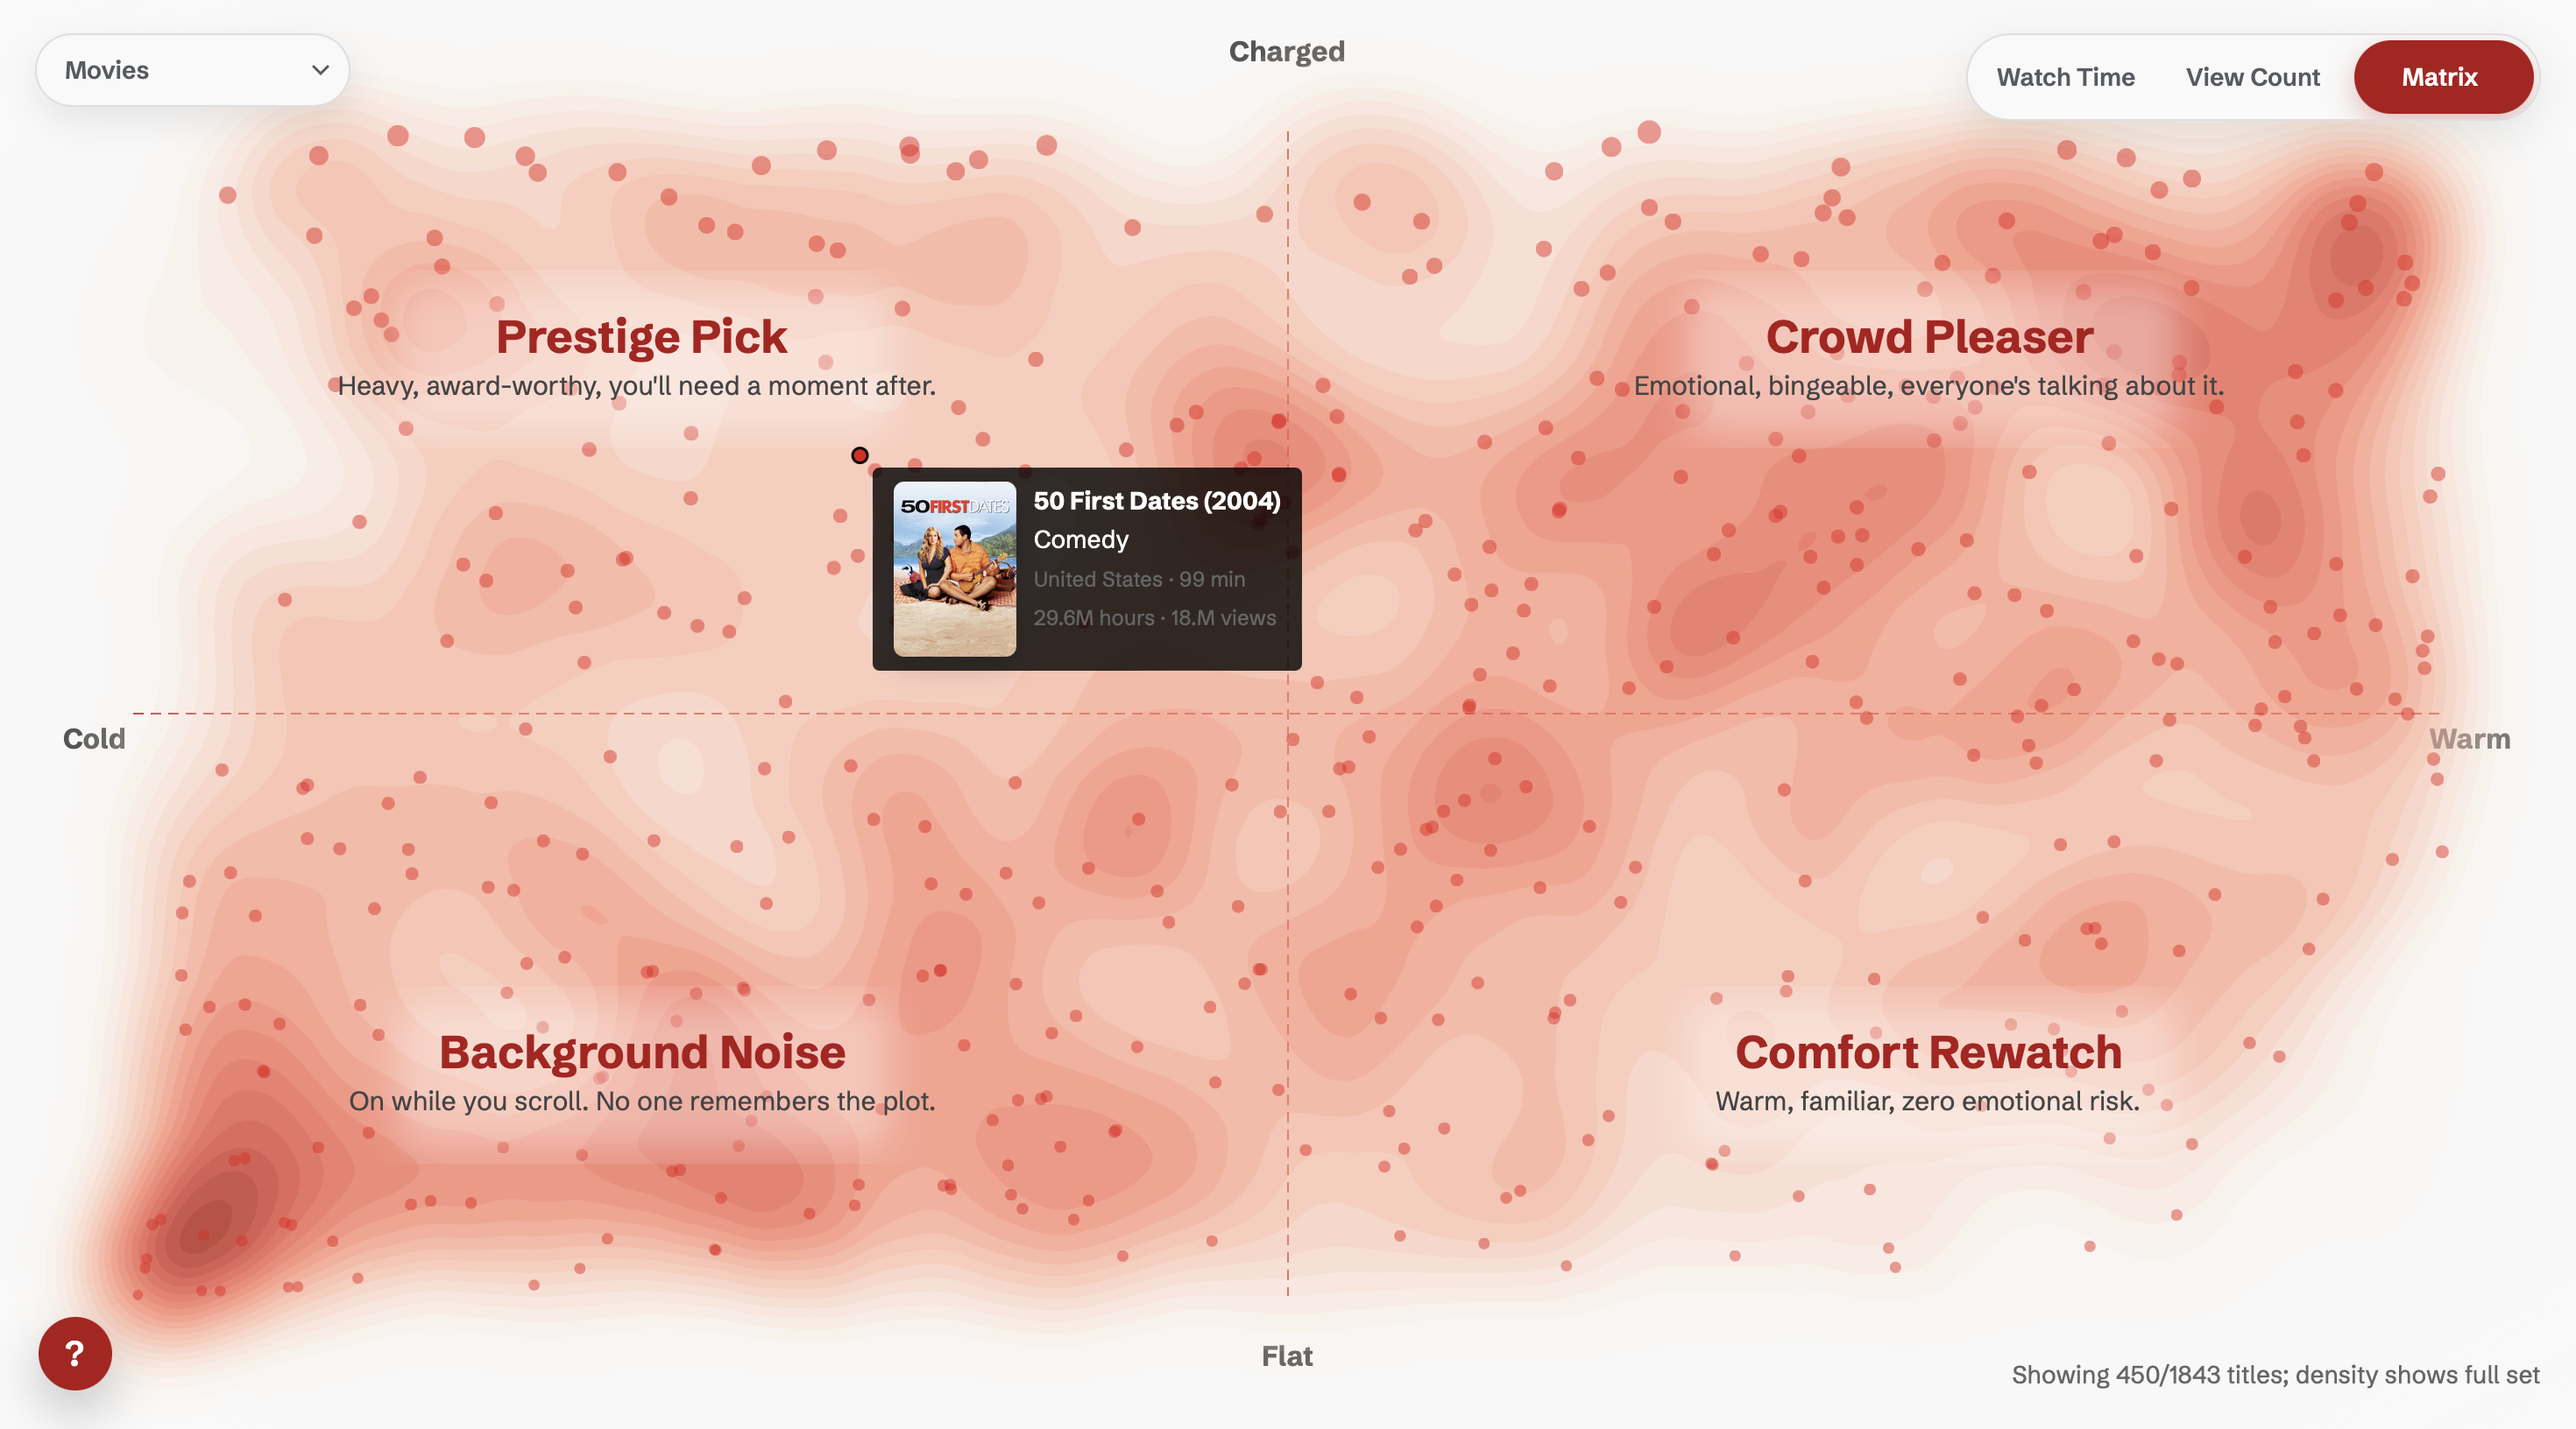
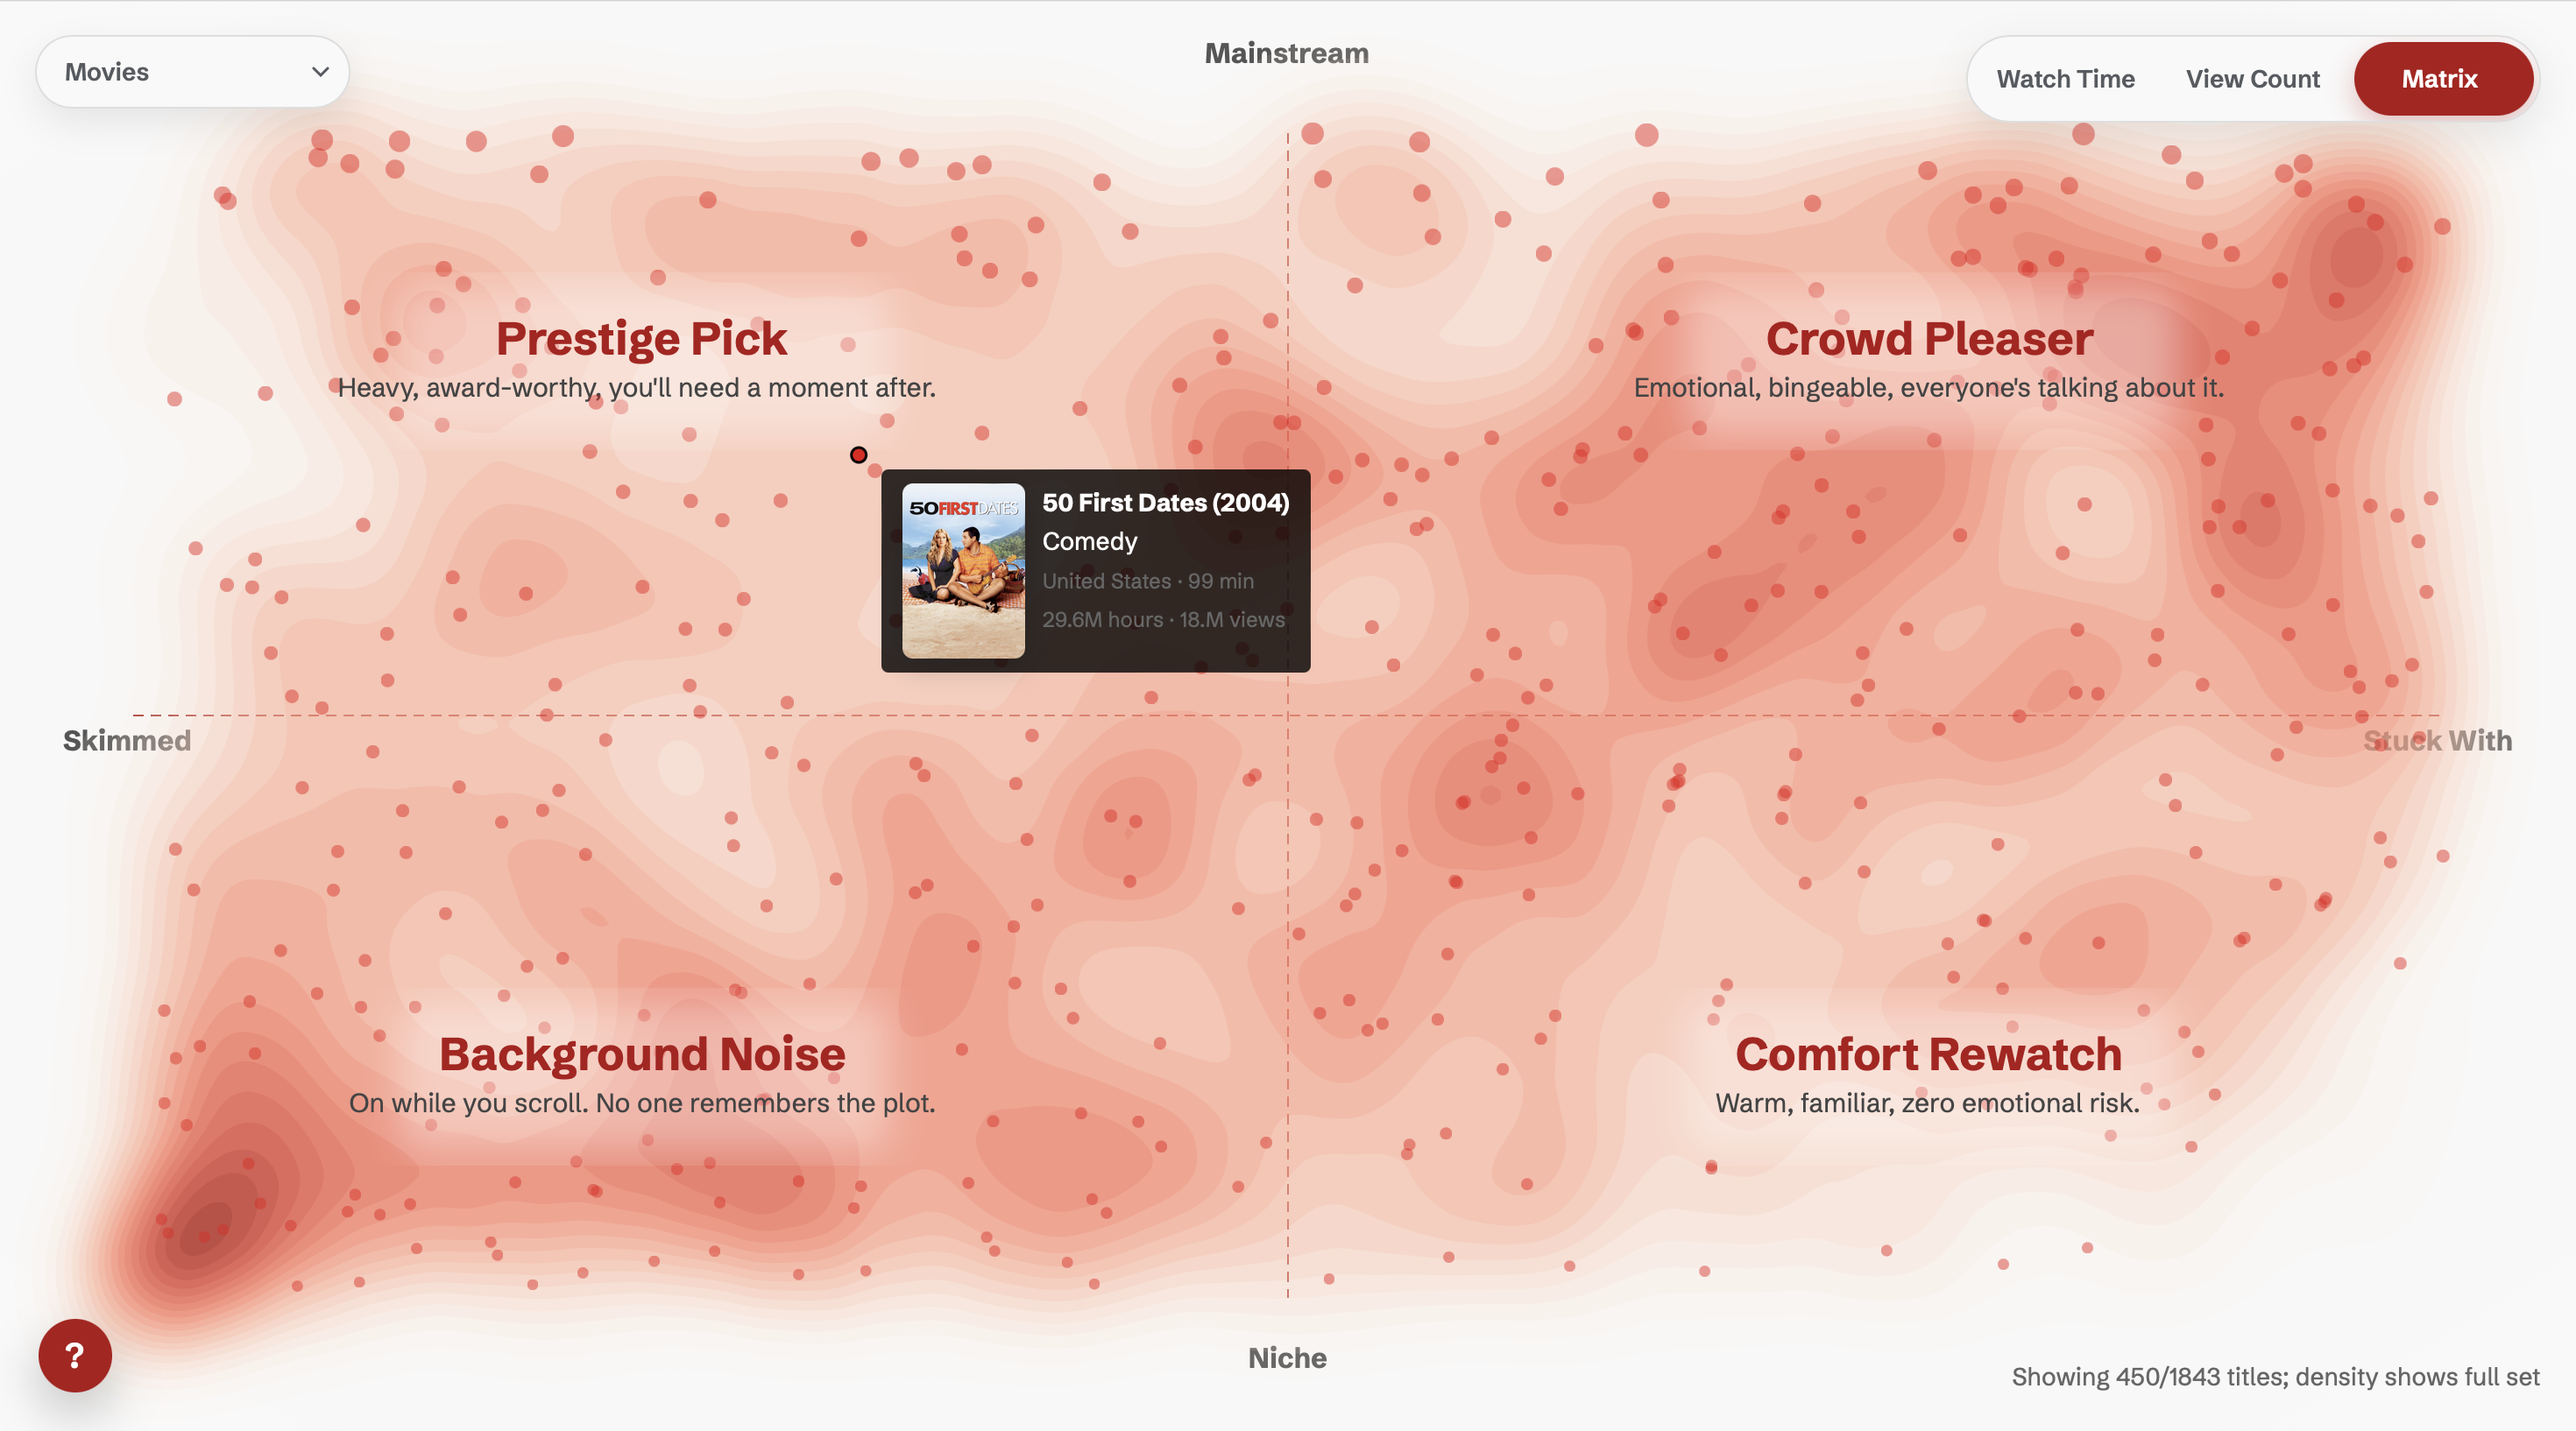
new screenshots

diff --git a/index.html b/index.html
@@ -47,7 +47,7 @@
   <div id="matrixHelp" aria-label="Matrix help" style="display:none;">?</div>
   <div id="matrixHelpPopover" style="display:none;">
     <p style="margin:8px 0 0 0;">
-      The sentiment matrix scores each title by analyzing its summary and keywords for <b>emotional valence</b> and <b>narrative intensity</b>, then weights those scores using basic engagement signals like <b>view count</b> and <b>watch time</b>. After normalization, those combined values become the two axes. Plotting them shows how the titles naturally cluster into the four viewing modes in the dataset.
+      The sentiment matrix blends each title’s engagement depth (hours per view) and total reach (hours watched). X-axis ranks how much viewers <b>stuck with</b> a title (high) vs <b>skimmed</b> it (low). Y-axis ranks how <b>mainstream</b> it is (high) vs <b>niche</b> (low). Percentile ranks keep the cloud balanced, and k-means splits the space into four viewing modes.
     </p>
   </div>
   <div id="slice-highlights" class="slice-highlights" style="display:none;"></div>

diff --git a/README.md b/README.md
@@ -1,6 +1,6 @@
 # Sentimental Value
 
-Sentimental Value breaks Netflix’s first six months of 2025 into three parts: watch time, view count, and a sentiment matrix built from emotional valence and narrative intensity. Valence runs cold to warm. Intensity runs flat to charged. Plot every title on those two lines and the patterns show up fast: the heavy prestige stuff, the easy crowd-pleasers, the background filler, and the comfort rewatches.
+Sentimental Value breaks Netflix’s first six months of 2025 into three parts: watch time, view count, and a sentiment matrix built from engagement depth vs. reach. The matrix ranks titles by hours-per-view (x-axis: skimmed → stuck with) and total hours (y-axis: niche → mainstream), then clusters the scatter into four viewing modes: Prestige Pick, Crowd Pleaser, Background Noise, and Comfort Rewatch.
 
 ## Sources
 
@@ -15,8 +15,15 @@ Sentimental Value breaks Netflix’s first six months of 2025 into three parts: 
 
 ## Screenshots
 
-![Watch Time](screenshots/1-watch-time.png)
-![View Count](screenshots/2-view-count.png)
-![Matrix – Movies](screenshots/3-matrix-movies.png)
-![Matrix – TV](screenshots/4-matrix-tv.png)
-![Matrix – All](screenshots/5-matrix-all.png)
+- Watch time sunburst (hours viewed)  
+  ![Watch Time](screenshots/1-watch-time.png)
+- View count sunburst (number of streams)  
+  ![View Count](screenshots/2-view-count.png)
+- Matrix — Movies (skimmed → stuck with, niche → mainstream)  
+  ![Matrix – Movies](screenshots/3-matrix-movies.png)
+- Matrix — TV (skimmed → stuck with, niche → mainstream)  
+  ![Matrix – TV](screenshots/4-matrix-tv.png)
+- Matrix — All titles (combined view)  
+  ![Matrix – All](screenshots/5-matrix-all.png)
+- Matrix legend for the four viewing modes  
+  ![Matrix Legend](screenshots/6-legend.png)
